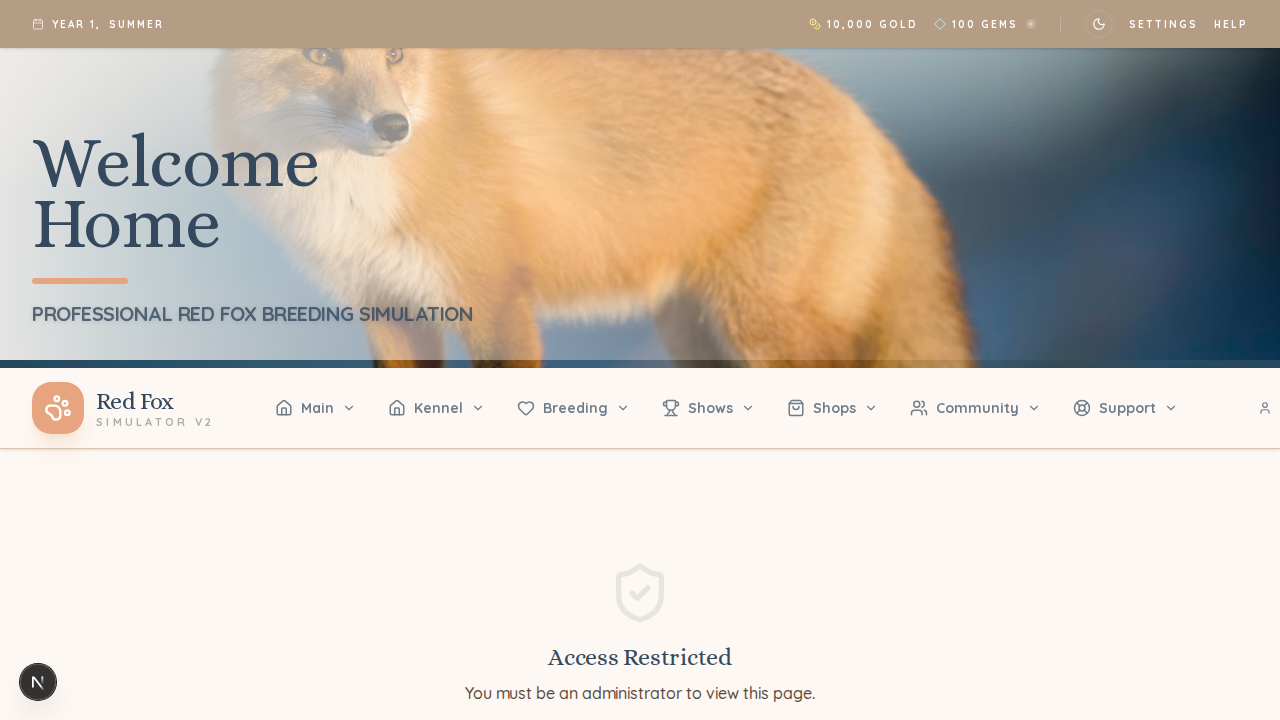
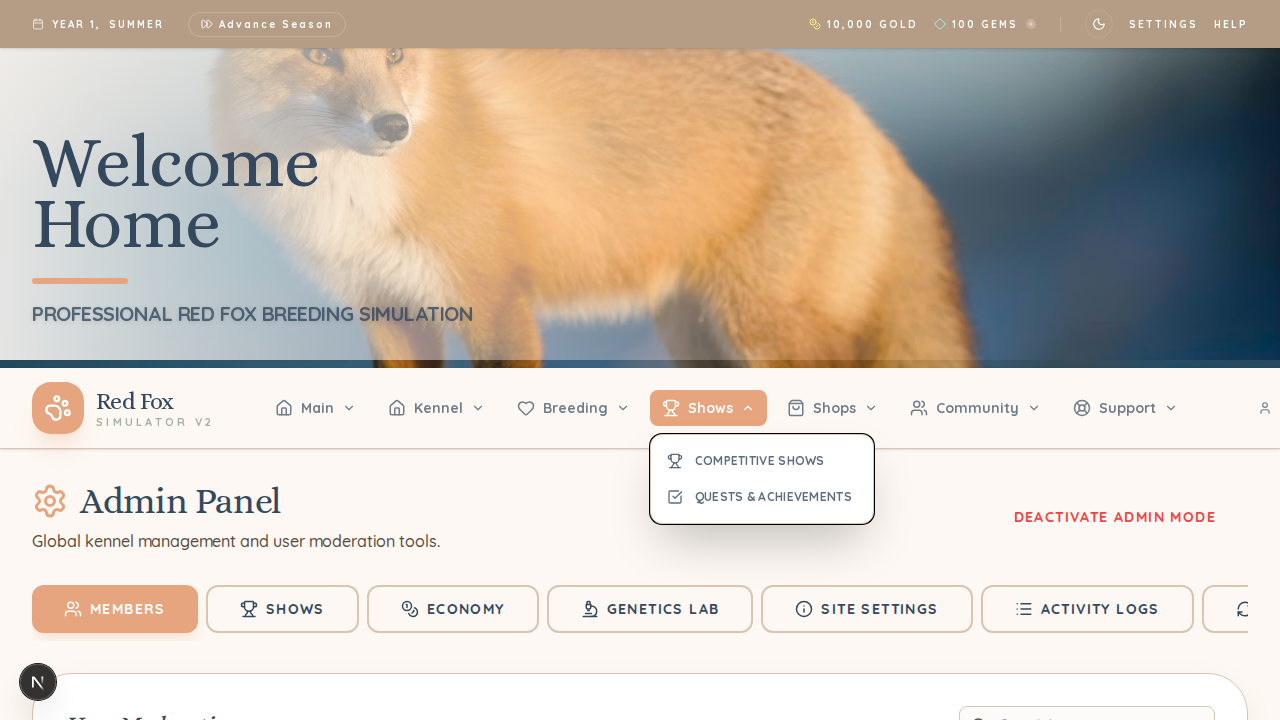
Fix build failure, standardize terminology, and implement Amateur shows

diff --git a/src/app/admin/page.tsx b/src/app/admin/page.tsx
@@ -42,7 +42,7 @@ export default function AdminPanel() {
 
     warnMember, banMember, adminSetCurrency, adminAddItem,
 
-    adminSpawnFox, adminUpdateFoxStats, runShows, advanceTime, toggleAdminMode,
+    adminSpawnFox, adminUpdateFoxStats, runShows, advanceTime, toggleAdminMode, updateShowConfig,
 
     bannerUrl, setBannerUrl, bannerPosition, setBannerPosition
 
@@ -171,6 +171,9 @@ export default function AdminPanel() {
       Open: { bis: 2500, first: 1000, second: 500, third: 250 },
 
       Senior: { bis: 5000, first: 2500, second: 1000, third: 500 },
+      "Amateur Junior": { bis: 1000, first: 500, second: 250, third: 100 },
+      "Amateur Open": { bis: 2500, first: 1000, second: 500, third: 250 },
+      "Amateur Senior": { bis: 5000, first: 2500, second: 1000, third: 500 },
 
       Championship: { bis: 10000, first: 5000, second: 2500, third: 1000 }
 
@@ -789,8 +792,9 @@ export default function AdminPanel() {
                                 const val = parseInt(e.target.value) || 0;
                                 const newConfig = { ...showConfig };
                                 newConfig[level] = { ...newConfig[level], first: val };
-                                setShowConfig(newConfig);
-                                savePrizeConfig(newConfig);
+                                  setShowConfig(newConfig);
+                                  savePrizeConfig(newConfig);
+                                  updateShowConfig(level as any, { first: val });
                                 showSavedIndicator(`${level}-first`);
                                 console.log('🔧 DEBUG: Prize config updated and saved');
                               }}
@@ -810,6 +814,7 @@ export default function AdminPanel() {
                                   newConfig[level] = { ...newConfig[level], first: val };
                                   setShowConfig(newConfig);
                                   savePrizeConfig(newConfig);
+                                  updateShowConfig(level as any, { first: val });
                                   showSavedIndicator(`${level}-first`);
                                   console.log('🔧 DEBUG: Prize config updated and saved');
                                 }}
@@ -831,8 +836,9 @@ export default function AdminPanel() {
                                 const val = parseInt(e.target.value) || 0;
                                 const newConfig = { ...showConfig };
                                 newConfig[level] = { ...newConfig[level], second: val };
-                                setShowConfig(newConfig);
-                                savePrizeConfig(newConfig);
+                                  setShowConfig(newConfig);
+                                  savePrizeConfig(newConfig);
+                                  updateShowConfig(level as any, { second: val });
                                 showSavedIndicator(`${level}-second`);
                               }}
                             >
@@ -851,6 +857,7 @@ export default function AdminPanel() {
                                   newConfig[level] = { ...newConfig[level], second: val };
                                   setShowConfig(newConfig);
                                   savePrizeConfig(newConfig);
+                                  updateShowConfig(level as any, { second: val });
                                   showSavedIndicator(`${level}-second`);
                                 }}
                               />
@@ -871,8 +878,9 @@ export default function AdminPanel() {
                                 const val = parseInt(e.target.value) || 0;
                                 const newConfig = { ...showConfig };
                                 newConfig[level] = { ...newConfig[level], third: val };
-                                setShowConfig(newConfig);
-                                savePrizeConfig(newConfig);
+                                  setShowConfig(newConfig);
+                                  savePrizeConfig(newConfig);
+                                  updateShowConfig(level as any, { third: val });
                                 showSavedIndicator(`${level}-third`);
                               }}
                             >
@@ -891,6 +899,7 @@ export default function AdminPanel() {
                                   newConfig[level] = { ...newConfig[level], third: val };
                                   setShowConfig(newConfig);
                                   savePrizeConfig(newConfig);
+                                  updateShowConfig(level as any, { third: val });
                                   showSavedIndicator(`${level}-third`);
                                 }}
                               />
@@ -933,6 +942,7 @@ export default function AdminPanel() {
                               newConfig[level] = { ...newConfig[level], bis: val };
                               setShowConfig(newConfig);
                               savePrizeConfig(newConfig);
+                              updateShowConfig(level as any, { bis: val });
                               showSavedIndicator(`${level}-bis`);
                             }}
                           />

diff --git a/src/lib/store.ts b/src/lib/store.ts
@@ -16,7 +16,7 @@ const generateNPCStuds = (year: number, season: string): Record<string, Fox> => 
 
   const nextNpcStuds: Record<string, Fox> = {};
   for (let i = 0; i < 4; i++) {
-    const stud = createFoundationalFox(npcSeededRandom, "Male");
+    const stud = createFoundationalFox(npcSeededRandom, "Dog");
     stud.isNPC = true;
     stud.genotypeRevealed = true;
     stud.studFee = 500 + Math.floor(npcSeededRandom() * 1000);
@@ -164,23 +164,14 @@ export interface ShowConfig {
 
 
 export interface Pregnancy {
-
   motherId: string;
-
   fatherId: string;
   fatherName: string;
-  fatherName: string;
-
   fatherGenotype: Genotype;
-
   fatherStats: Stats;
-
   fatherSilverIntensity: number;
-
   dueYear: number;
-
   dueSeason: string;
-
 }
 
 
@@ -202,16 +193,10 @@ export interface AdminLog {
 
 
 export interface WhelpingReport {
-
   motherName: string;
   fatherName: string;
-  fatherName: string;
-
   kits: { name: string; phenotype: string; baseColor: string; pattern: string; eyeColor: string; isStillborn: boolean }[];
-
 }
-
-
 
 interface GameState {
 
@@ -222,6 +207,7 @@ interface GameState {
   gems: number;
 
   year: number;
+  joiningYear: number;
 
   season: 'Spring' | 'Summer' | 'Autumn' | 'Winter';
 
@@ -472,6 +458,7 @@ export const useGameStore = create<GameState>()(
       gems: 100,
 
       year: 1,
+      joiningYear: 1,
 
       season: 'Spring',
 
@@ -493,7 +480,6 @@ export const useGameStore = create<GameState>()(
 
       whelpingReports: [],
 
-      gold: male.isNPC ? state.gold - male.studFee : state.gold,
           pregnancyList: [],
 
       kennelCapacity: 10,
@@ -527,6 +513,9 @@ export const useGameStore = create<GameState>()(
       isAdmin: false,
 
       showConfig: {
+        "Amateur Junior": { bis: 1000, first: 500, second: 250, third: 100 },
+        "Amateur Open": { bis: 2500, first: 1000, second: 500, third: 250 },
+        "Amateur Senior": { bis: 5000, first: 2500, second: 1000, third: 500 },
 
         Junior: { bis: 1000, first: 500, second: 250, third: 100 },
 
@@ -637,6 +626,7 @@ export const useGameStore = create<GameState>()(
           state.pregnancyList.forEach(preg => {
 
             const mother = updatedFoxes[preg.motherId];
+            const kits: any[] = [];
 
             if (!mother) return;
 
@@ -732,7 +722,6 @@ export const useGameStore = create<GameState>()(
 
         set((state) => ({
 
-          gold: male.isNPC ? state.gold - male.studFee : state.gold,
           pregnancyList: [
 
             ...state.pregnancyList,
@@ -742,6 +731,7 @@ export const useGameStore = create<GameState>()(
               motherId: vixenId,
 
               fatherId: dogId,
+              fatherName: dog.name,
 
               fatherGenotype: dog.genotype,
 
@@ -1300,9 +1290,7 @@ export const useGameStore = create<GameState>()(
 
 
       updateShowConfig: (level, updates) => set((state) => ({
-
         showConfig: { ...state.showConfig, [level]: { ...state.showConfig[level], ...updates } }
-
       })),
 
 
@@ -1521,7 +1509,7 @@ export const useGameStore = create<GameState>()(
 
       name: 'red-fox-sim-storage',
 
-      version: 2,
+      version: 3,
 
       migrate: (persistedState: any, version: number) => {
         if (version < 2) {

diff --git a/src/app/shows/page.tsx b/src/app/shows/page.tsx
@@ -20,9 +20,10 @@ import { Trophy, Users, Info } from 'lucide-react';
 
 export default function ShowsPage() {
 
-  const { runShows, year, season, seniorShowWinners } = useGameStore();
+  const { runShows, year, joiningYear, season, seniorShowWinners } = useGameStore();
 
-  const luckBonus = 0; // Remove random calculation for now
+  const luckBonus = 0;
+  const isAmateurEligible = year <= (joiningYear || 1) + 1; // Remove random calculation for now
 
 
 
@@ -32,7 +33,14 @@ export default function ShowsPage() {
 
       <div className="flex flex-col sm:flex-row justify-between items-start sm:items-center gap-4">
 
-        <h2 className="text-4xl font-folksy text-foreground tracking-tight" style={{ fontWeight: 400 }}>Show Arena</h2>
+        <div className="space-y-4">
+          <h2 className="text-4xl font-folksy text-foreground tracking-tight" style={{ fontWeight: 400 }}>Show Arena</h2>
+          {isAmateurEligible && (
+            <div className="p-4 bg-primary/10 border border-primary/20 rounded-xl text-xs font-black uppercase tracking-widest text-primary">
+              You qualify for Amateur shows until winter of Year {(joiningYear || 1) + 1}
+            </div>
+          )}
+        </div>
 
         <Button onClick={runShows} className="gap-2 bg-primary hover:bg-primary/90 text-primary-foreground font-black uppercase tracking-widest px-6 py-6 rounded-2xl shadow-lg shadow-primary/20">
 
@@ -77,6 +85,22 @@ export default function ShowsPage() {
               <h4 className="text-[10px] font-black text-muted-foreground uppercase tracking-widest">Levels</h4>
 
               <ul className="space-y-2 text-sm">
+                {isAmateurEligible && (
+                  <>
+                    <li className="flex justify-between items-center p-2 rounded-lg hover:bg-muted/30 transition-colors border-b border-primary/10 pb-3 mb-1">
+                      <span className="font-bold text-primary">Amateur Junior</span>
+                      <Badge variant="outline" className="text-[9px] font-bold border-primary/30 text-primary">&lt; 5 pts</Badge>
+                    </li>
+                    <li className="flex justify-between items-center p-2 rounded-lg hover:bg-muted/30 transition-colors border-b border-primary/10 pb-3 mb-1">
+                      <span className="font-bold text-primary">Amateur Open</span>
+                      <Badge variant="outline" className="text-[9px] font-bold border-primary/30 text-primary">Adults</Badge>
+                    </li>
+                    <li className="flex justify-between items-center p-2 rounded-lg hover:bg-muted/30 transition-colors border-b border-primary/10 pb-3 mb-3">
+                      <span className="font-bold text-primary">Amateur Senior</span>
+                      <Badge variant="outline" className="text-[9px] font-bold border-primary/30 text-primary">&gt; 10 pts</Badge>
+                    </li>
+                  </>
+                )}
 
                 <li className="flex justify-between items-center p-2 rounded-lg hover:bg-muted/30 transition-colors">
 

diff --git a/src/lib/showing.ts b/src/lib/showing.ts
@@ -1,6 +1,6 @@
 import { Fox, getActiveBoosts, isHungry } from './genetics';
 
-export type ShowLevel = 'Junior' | 'Open' | 'Senior' | 'Championship';
+export type ShowLevel = "Junior" | "Open" | "Senior" | "Championship" | "Amateur Junior" | "Amateur Open" | "Amateur Senior";
 export type ShowClass = 
     'Best Juvenile Dog' | 'Best Juvenile Vixen' | 'Best Adult Dog' | 'Best Adult Vixen' |
     'Red Specialty' | 'Silver Specialty' | 'Gold Specialty' | 'Cross Specialty' | 'Exotic Specialty';
@@ -139,8 +139,12 @@ export function runShow(level: ShowLevel, foxes: Fox[], year: number, season: st
 
     // Level restrictions
     const finalEligible = eligibleFoxes.filter(f => {
-        if (level === 'Junior') return f.pointsLifetime < 5;
-        if (level === 'Senior') return f.pointsLifetime > 10;
+        // Amateur shows are restricted to adult foxes
+        if (level.startsWith("Amateur") && f.age === 0) return false;
+
+        const baseLevel = level.replace("Amateur ", "");
+        if (baseLevel === "Junior") return f.pointsLifetime < 5;
+        if (baseLevel === "Senior") return f.pointsLifetime > 10;
         return true;
     });
 

diff --git a/src/lib/genetics.ts b/src/lib/genetics.ts
@@ -388,7 +388,7 @@ export function createFox(data: Partial<Fox>, random: () => number = Math.random
   };
 }
 
-export function createFoundationalFox(random: () => number = Math.random, gender?: "Male" | "Female"): Fox {
+export function createFoundationalFox(random: () => number = Math.random, gender?: "Dog" | "Vixen"): Fox {
   // Only use random on client side to avoid hydration issues
   const safeRandom = typeof window !== 'undefined' ? random : () => 0.5;
   
@@ -497,7 +497,7 @@ export function createFoundationFoxCollection(random: () => number = Math.random
   return foxes;
 }
 
-function createFoundationalFoxWithGenotype(baseGenotype: Record<string, [string, string]>, random: () => number, gender?: "Male" | "Female"): Fox {
+function createFoundationalFoxWithGenotype(baseGenotype: Record<string, [string, string]>, random: () => number, gender?: "Dog" | "Vixen"): Fox {
   const safeRandom = typeof window !== 'undefined' ? random : () => 0.5;
   
   const genotype = getInitialGenotype();

diff --git a/src/components/Dashboard.tsx b/src/components/Dashboard.tsx
@@ -34,7 +34,7 @@ export function Dashboard() {
         )}
       </div>
 
-      <div className="grid grid-cols-1 sm:grid-cols-2 lg:grid-cols-4 gap-6">
+      <div className="grid grid-cols-1 sm:grid-cols-2 lg:grid-cols-5 gap-6">
         <StatCard
           label="Kennel Capacity"
           value={`${foxList.length} / ${kennelCapacity}`}
@@ -51,6 +51,12 @@ export function Dashboard() {
           label="Best in Show"
           value={bisWins}
           icon={<Star size={24} />}
+          variant="primary"
+        />
+        <StatCard
+          label="Best Dog"
+          value={bestDogWins}
+          icon={<Trophy size={24} />}
           variant="primary"
         />
         <StatCard

diff --git a/frontend_verify.py b/frontend_verify.py
@@ -7,7 +7,7 @@ async def verify():
         page = await browser.new_page()
 
         # Check Dashboard
-        await page.goto("http://localhost:3000/")
+        await page.goto("http://localhost:3000/kennel/dashboard")
         await page.wait_for_timeout(2000)
         content = await page.content()
         print(f"Dashboard - Best Vixen found: {'Best Vixen' in content}")
@@ -22,6 +22,10 @@ async def verify():
         print(f"Breeding - Vixen label found: {'Vixen' in content}")
         await page.screenshot(path="breeding_final.png")
 
+                # Toggle Admin Mode
+        await page.goto("http://localhost:3000/kennel/dashboard")
+        await page.click("svg.lucide-paw-print")
+        await page.wait_for_timeout(500)
         # Check Admin
         await page.goto("http://localhost:3000/admin")
         await page.wait_for_timeout(2000)
@@ -30,8 +34,19 @@ async def verify():
         content = await page.content()
         print(f"Admin - Dog button found: {'Dog' in content}")
         print(f"Admin - Vixen button found: {'Vixen' in content}")
+        # Click Shows tab
+        await page.click("text=Shows")
+        await page.wait_for_timeout(1000)
+        content = await page.content()
+        print(f"Admin - Amateur Junior config found: {'Amateur Junior' in content}")
         await page.screenshot(path="admin_final.png")
 
+        # Check Shows for Amateur
+        await page.goto("http://localhost:3000/shows")
+        await page.wait_for_timeout(2000)
+        content = await page.content()
+        print(f"Shows - Amateur Junior found: {"Amateur Junior" in content}")
+        print(f"Shows - Eligibility notice found: {"qualify for Amateur shows" in content}")
         await browser.close()
 
 if __name__ == "__main__":
